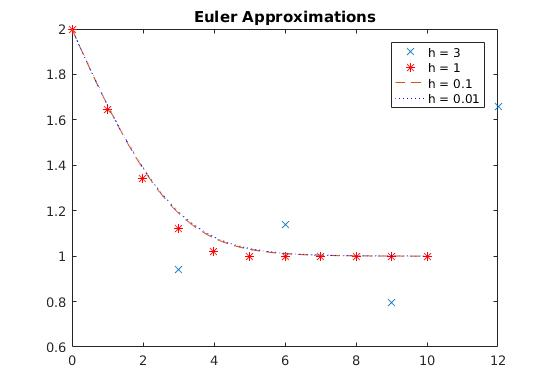
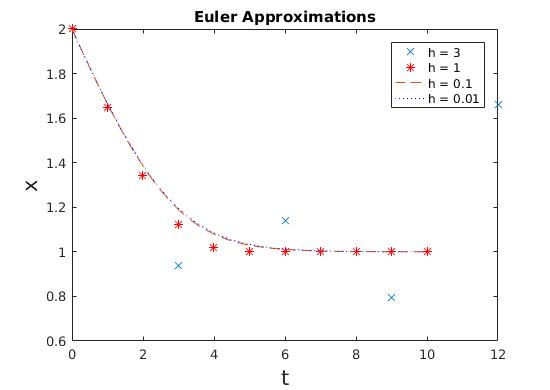
Completed euler plots

diff --git a/Matlab/DifferentialEquations/Project1/EulerPlot.m b/Matlab/DifferentialEquations/Project1/EulerPlot.m
@@ -28,4 +28,6 @@ h4 = 0.01;
 plot(t_sol1, x_sol1, 'x', t_sol2, x_sol2, 'r*', t_sol3, x_sol3, '--', t_sol4, x_sol4, 'b:')
 title('Euler Approximations')
 legend('h = 3', 'h = 1', 'h = 0.1', 'h = 0.01')
+xlabel('t','FontSize',16);
+ylabel('x','FontSize',16);
 
